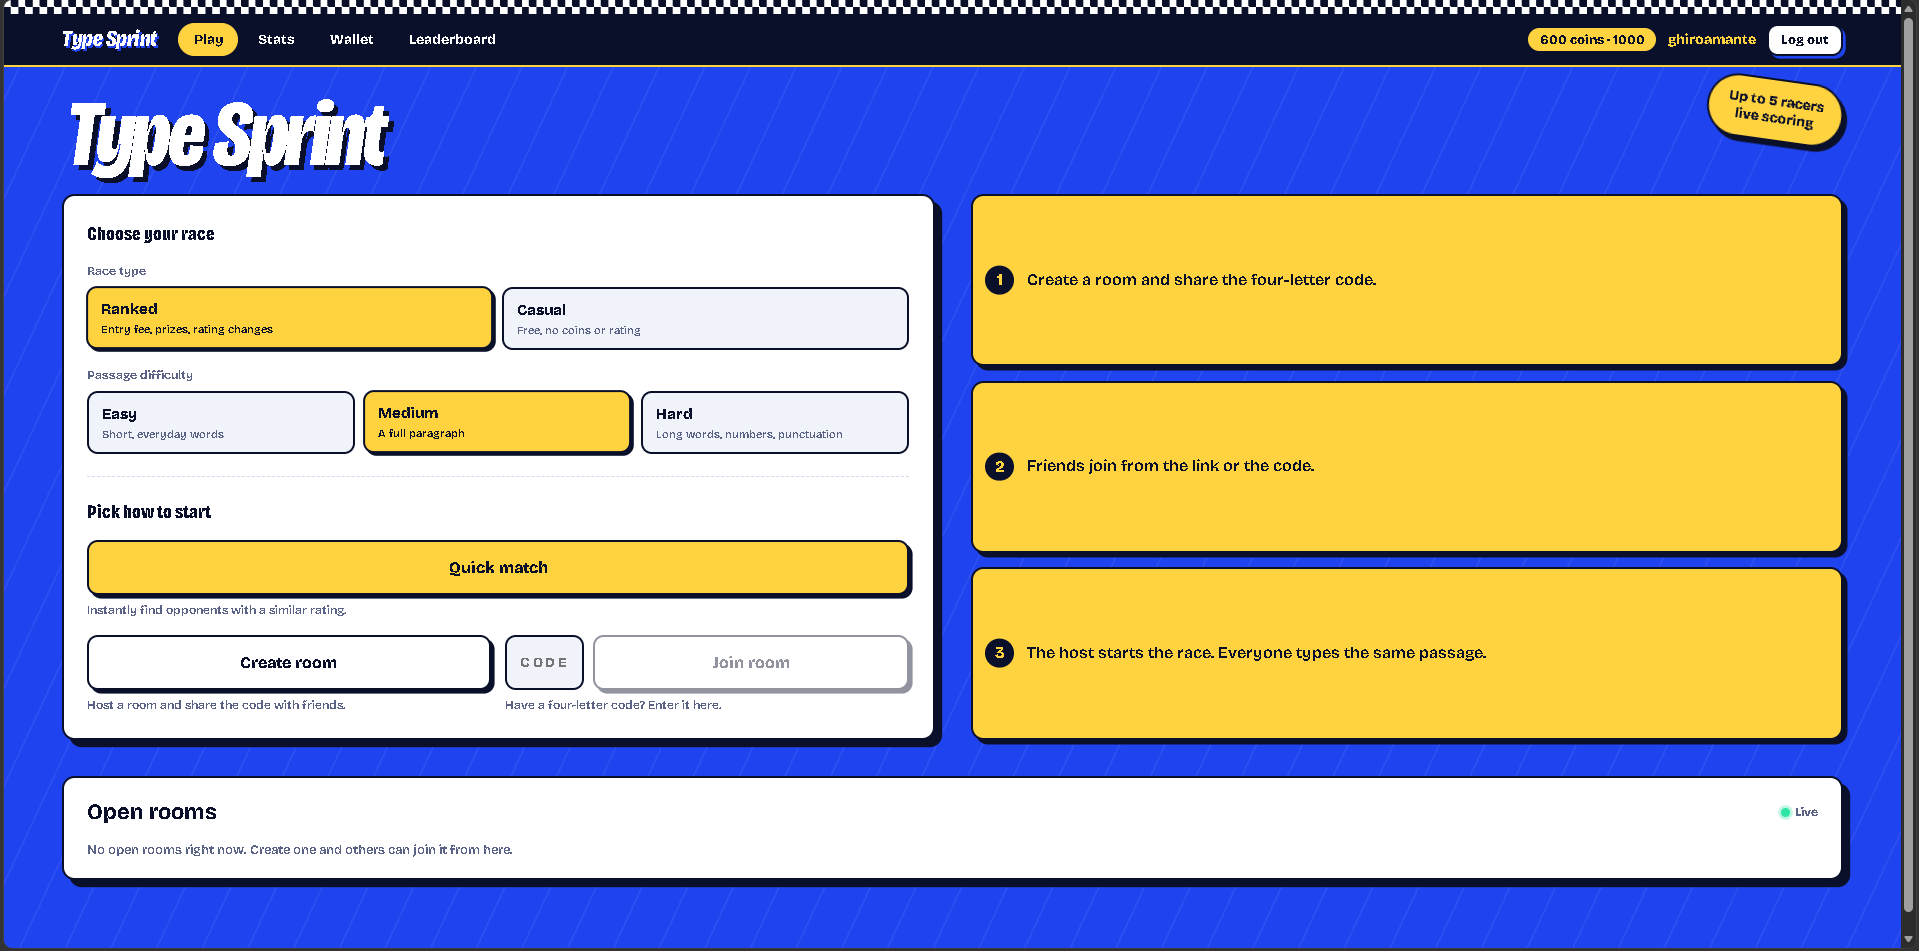
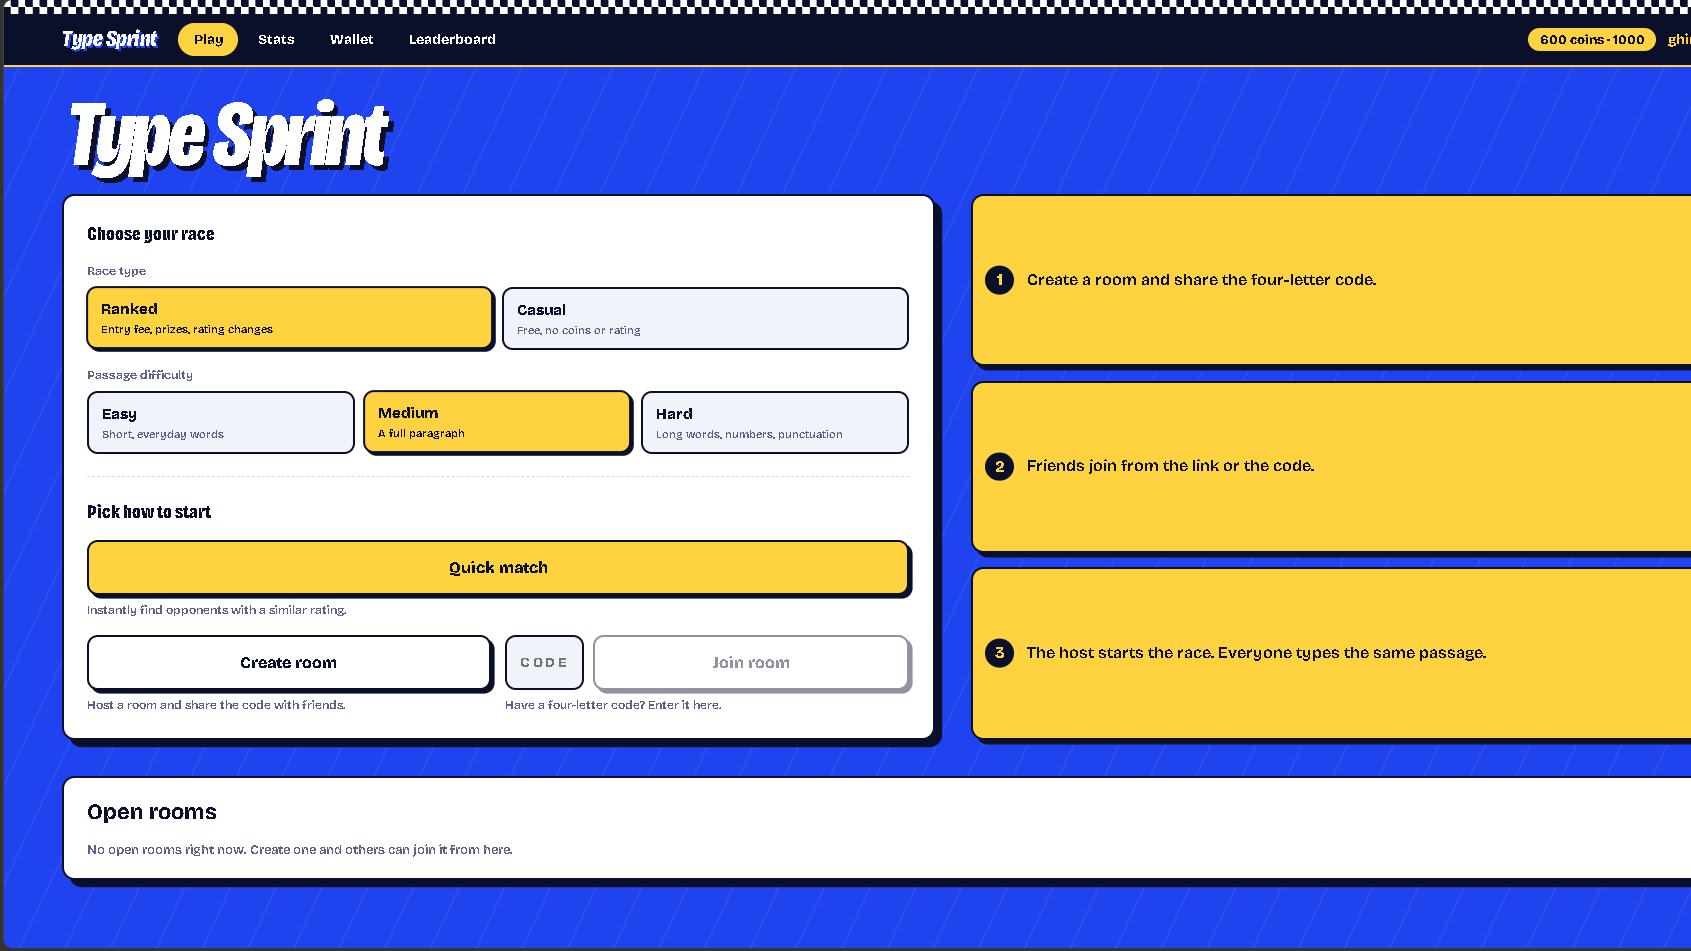
Add files via upload

diff --git a/src/components/ProjectCard.jsx b/src/components/ProjectCard.jsx
@@ -1,6 +1,6 @@
 export default function ProjectCard({ title, description, image, imageAlt, tags = [], repoUrl, liveUrl }) {
   return (
-    <article className="group flex flex-col overflow-hidden rounded-xl border border-slate-800 bg-slate-900 shadow-lg shadow-black/20 transition hover:-translate-y-1 hover:border-indigo-500/50">
+    <article className="group flex h-full flex-col overflow-hidden rounded-xl border border-slate-800 bg-slate-900 shadow-lg shadow-black/20 transition hover:-translate-y-1 hover:border-indigo-500/50">
       <div className="overflow-hidden border-b border-slate-800">
         <img src={image} alt={imageAlt} loading="lazy" className="aspect-video w-full object-cover object-top transition duration-500 group-hover:scale-105" />
       </div>
@@ -15,7 +15,7 @@ export default function ProjectCard({ title, description, image, imageAlt, tags 
           </ul>
         )}
         {(repoUrl || liveUrl) && (
-          <div className="mt-5 flex flex-wrap gap-3">
+          <div className="mt-auto flex flex-wrap gap-3 pt-5">
             {liveUrl && (
               <a href={liveUrl} target="_blank" rel="noopener noreferrer" className="btn btn-primary">
                 Live site<span className="sr-only"> for {title} (opens in a new tab)</span>

diff --git a/src/pages/Projects.jsx b/src/pages/Projects.jsx
@@ -12,7 +12,7 @@ export default function Projects() {
       <PageHeader eyebrow="Projects" title="Things I've" accent="built" description="Things I've made while learning full stack development. Open the live site or the code for each one." />
       <div className="mt-10 grid gap-6 sm:grid-cols-2 xl:grid-cols-3">
         {projects.map((project, i) => (
-          <Reveal key={project.title} delay={i * 120}><ProjectCard {...project} /></Reveal>
+          <Reveal key={project.title} delay={i * 120} className="h-full"><ProjectCard {...project} /></Reveal>
         ))}
       </div>
       <Reveal className="mt-14">
